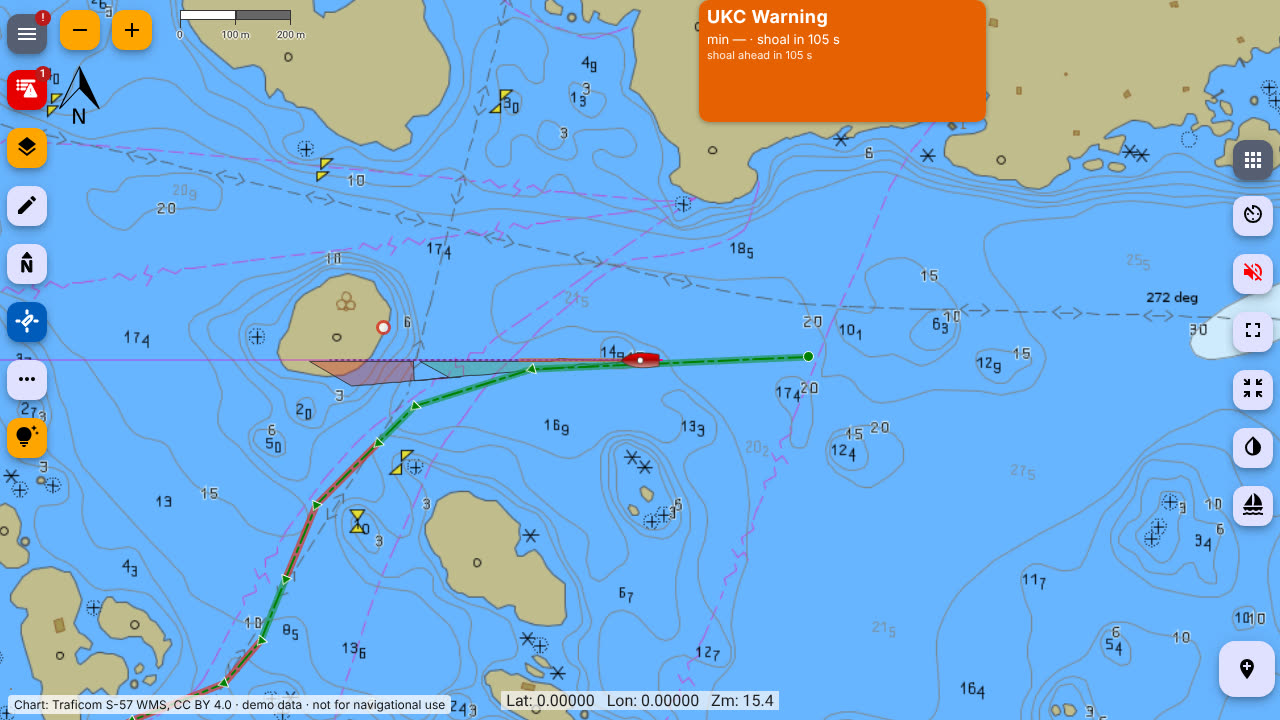
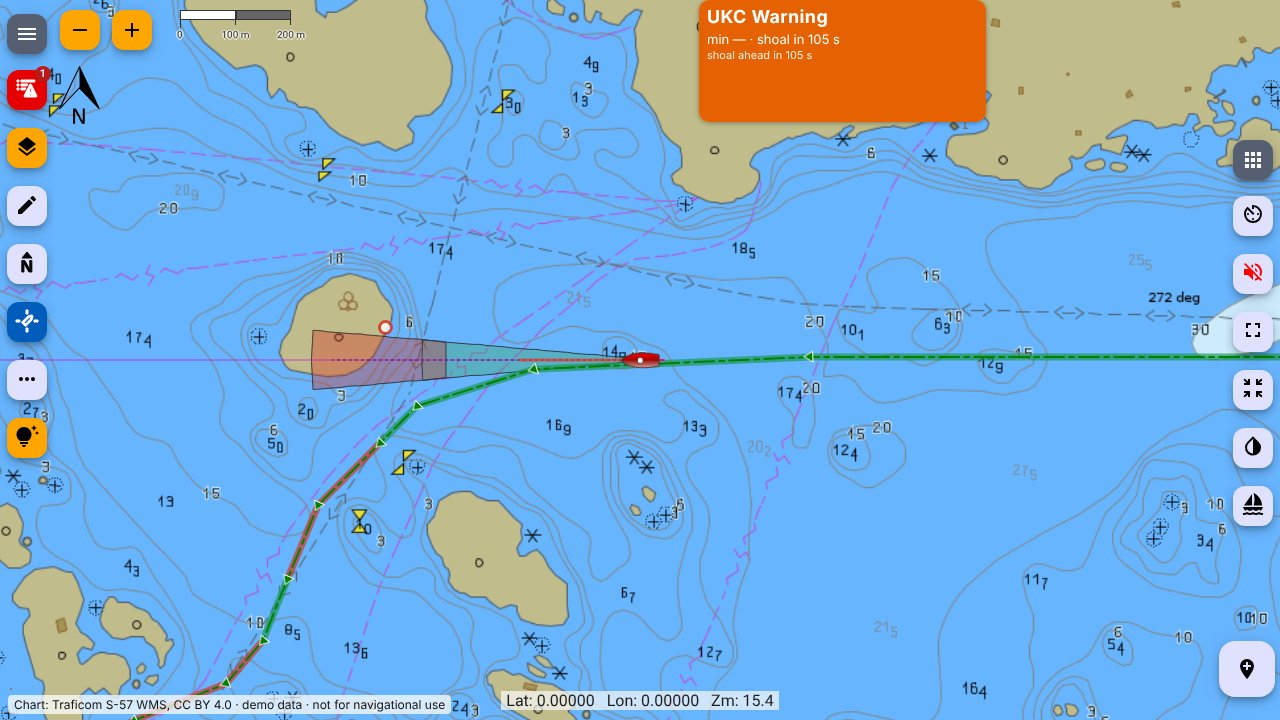
docs(guide): re-take the Freeboard screenshots with the fixed envelope outline
The three Freeboard images were shot before the outline fix and showed the
cone lopsided to one side of the track. The demo route also gained a point
at its east end, so the failing legs in the panel caption are now 5 and 6.

Claude-Session: https://claude.ai/code/session_01RqAaJ4mFiWNeCzGpoFBYWA

diff --git a/docs/HOW-IT-WORKS.md b/docs/HOW-IT-WORKS.md
@@ -632,7 +632,7 @@ the chart._
 
 ![Freeboard: the details panel with the route-check legs](images/how-it-works/freeboard-panel.jpg)
 
-_The details panel lists every leg of each route on the chart. Legs 4 and 5 fail on a 1 m
+_The details panel lists every leg of each route on the chart. Legs 5 and 6 fail on a 1 m
 sounding about 60 m off the track: its 50 m survey-category-B position uncertainty reaches the
 10 m cross-track corridor. The legs west of the fairway fail because the open data has a
 0–3 m depth area in the channel, which counts as 0 m._
